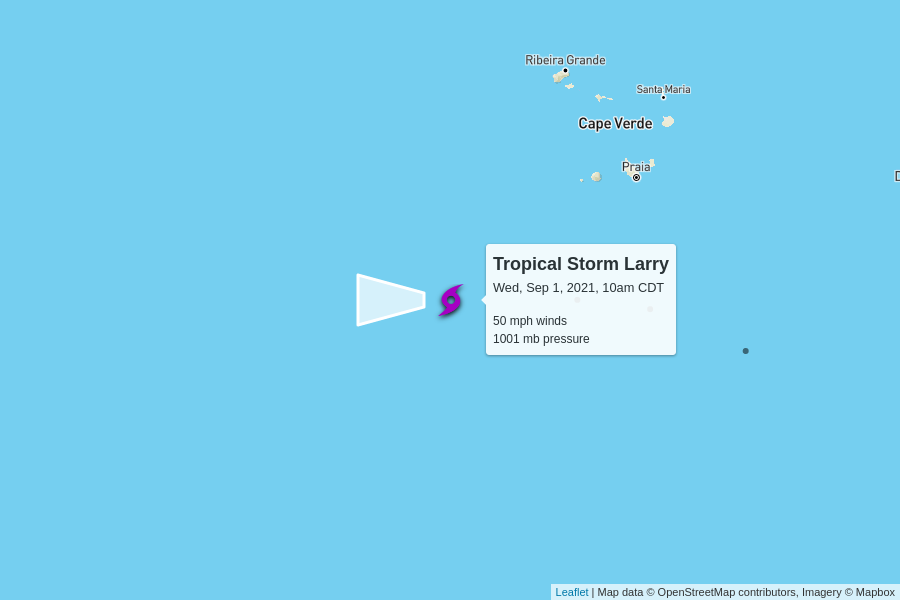
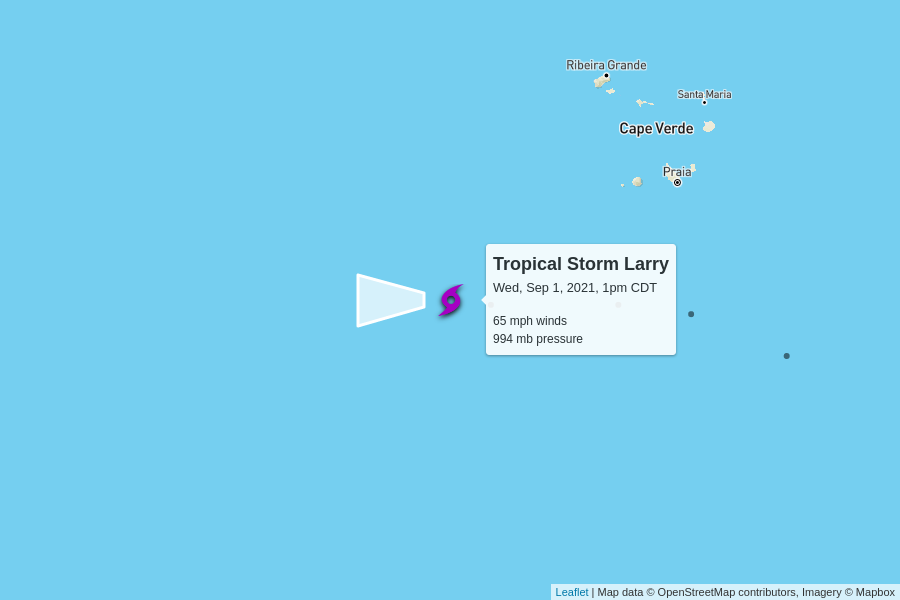
automatic update

diff --git a/docs/index.html b/docs/index.html
@@ -99,6 +99,50 @@
       <tr>
         <td colspan="6" class="storm category-0">
           <h2>
+            Tropical Storm Larry
+            <p class="updated">last updated <span data-time>2021-09-01T18:30:00.000Z</span></p>
+          </h2>
+        </td>
+      </tr>
+      
+      <tr>
+        <th class="spacer"></th>
+        <th>wind speed</th>
+        <th>central pressure</th>
+        <th>movement</th>
+        <th>data (CSV)</th>
+        <th>National Hurricane Center</th>
+      </tr>
+      <tr>
+        <td class="spacer"></td>
+        <td>65 mph</td>
+        <td>994 mb</td>
+        <td>
+          22 mph to the west
+          <br/>
+          <span style="display: inline-block; font-size: 1.5em; transform: rotate(270deg);">↑</span>
+        </td>
+        <td><a href="https://raw.githubusercontent.com/mgwalker/atlantic-hurricanes/main/data/csv/AL122021.csv">AL122021.csv</a></td>
+        <td><a href="https://www.nhc.noaa.gov/archive/2021/LARRY.shtml?">NHC advisories</a></td>
+      </tr>
+      <tr>
+        <td class="spacer">
+        <td colspan="5">
+          <figure>
+            <img src="AL122021.png">
+            <figcaption>
+              Map data &copy; <a href="https://www.openstreetmap.org/copyright">OpenStreetMap</a> contributors,
+              Imagery &copy; <a href="https://www.mapbox.com/">Mapbox</a> |
+              <a href="https://www.mapbox.com/map-feedback/" target="_blank">Improve this map</a>
+            </figcaption>
+          </figure>
+        </td>
+      </tr>
+      
+
+      <tr>
+        <td colspan="6" class="storm category-0">
+          <h2>
             Tropical Depression Kate
             <p class="updated">last updated <span data-time>2021-09-01T15:00:00.000Z</span></p>
           </h2>
@@ -130,50 +174,6 @@
         <td colspan="5">
           <figure>
             <img src="AL102021.png">
-            <figcaption>
-              Map data &copy; <a href="https://www.openstreetmap.org/copyright">OpenStreetMap</a> contributors,
-              Imagery &copy; <a href="https://www.mapbox.com/">Mapbox</a> |
-              <a href="https://www.mapbox.com/map-feedback/" target="_blank">Improve this map</a>
-            </figcaption>
-          </figure>
-        </td>
-      </tr>
-      
-
-      <tr>
-        <td colspan="6" class="storm category-0">
-          <h2>
-            Tropical Storm Larry
-            <p class="updated">last updated <span data-time>2021-09-01T15:00:00.000Z</span></p>
-          </h2>
-        </td>
-      </tr>
-      
-      <tr>
-        <th class="spacer"></th>
-        <th>wind speed</th>
-        <th>central pressure</th>
-        <th>movement</th>
-        <th>data (CSV)</th>
-        <th>National Hurricane Center</th>
-      </tr>
-      <tr>
-        <td class="spacer"></td>
-        <td>50 mph</td>
-        <td>1001 mb</td>
-        <td>
-          22 mph to the west
-          <br/>
-          <span style="display: inline-block; font-size: 1.5em; transform: rotate(270deg);">↑</span>
-        </td>
-        <td><a href="https://raw.githubusercontent.com/mgwalker/atlantic-hurricanes/main/data/csv/AL122021.csv">AL122021.csv</a></td>
-        <td><a href="https://www.nhc.noaa.gov/archive/2021/LARRY.shtml?">NHC advisories</a></td>
-      </tr>
-      <tr>
-        <td class="spacer">
-        <td colspan="5">
-          <figure>
-            <img src="AL122021.png">
             <figcaption>
               Map data &copy; <a href="https://www.openstreetmap.org/copyright">OpenStreetMap</a> contributors,
               Imagery &copy; <a href="https://www.mapbox.com/">Mapbox</a> |
